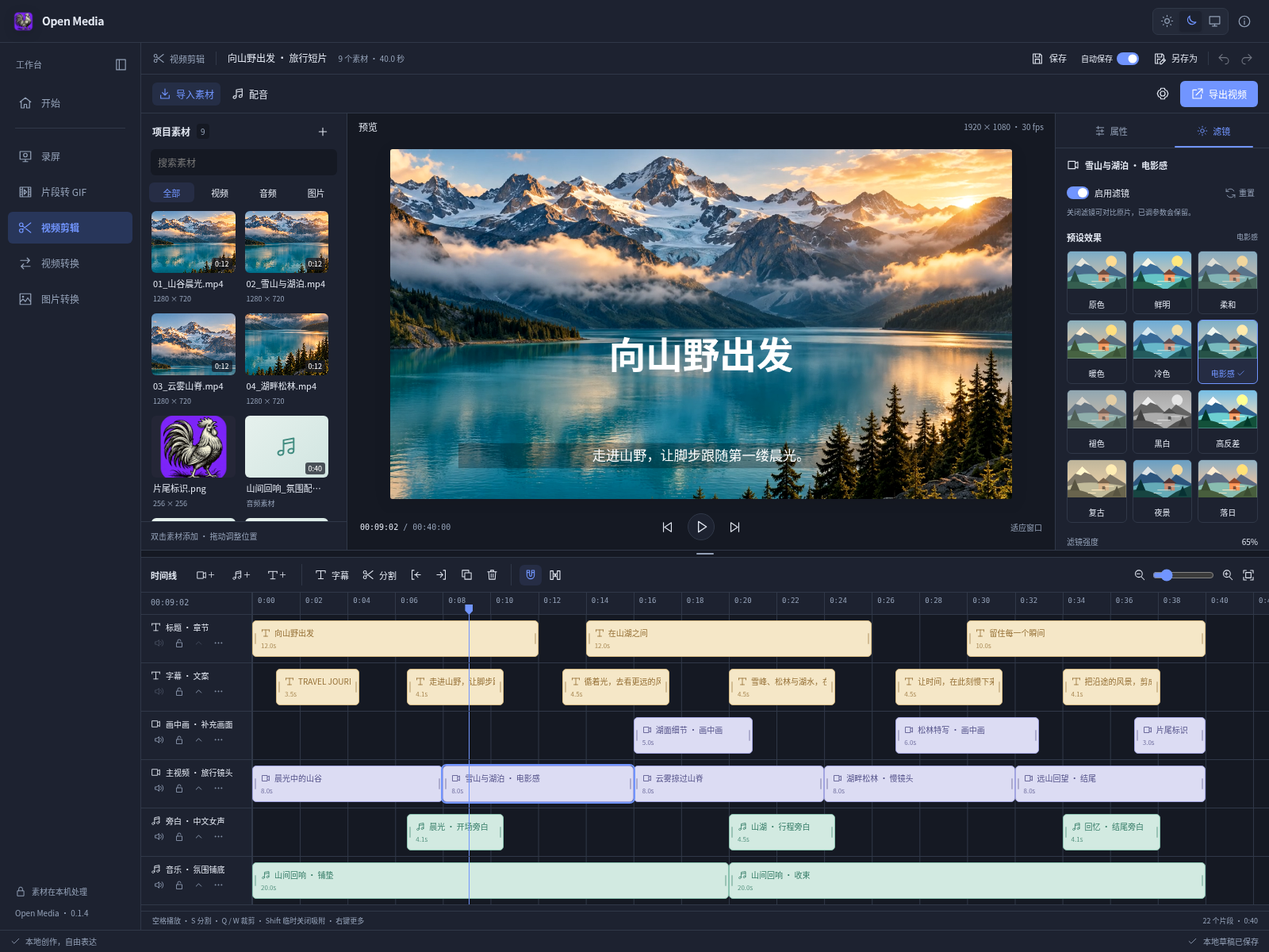
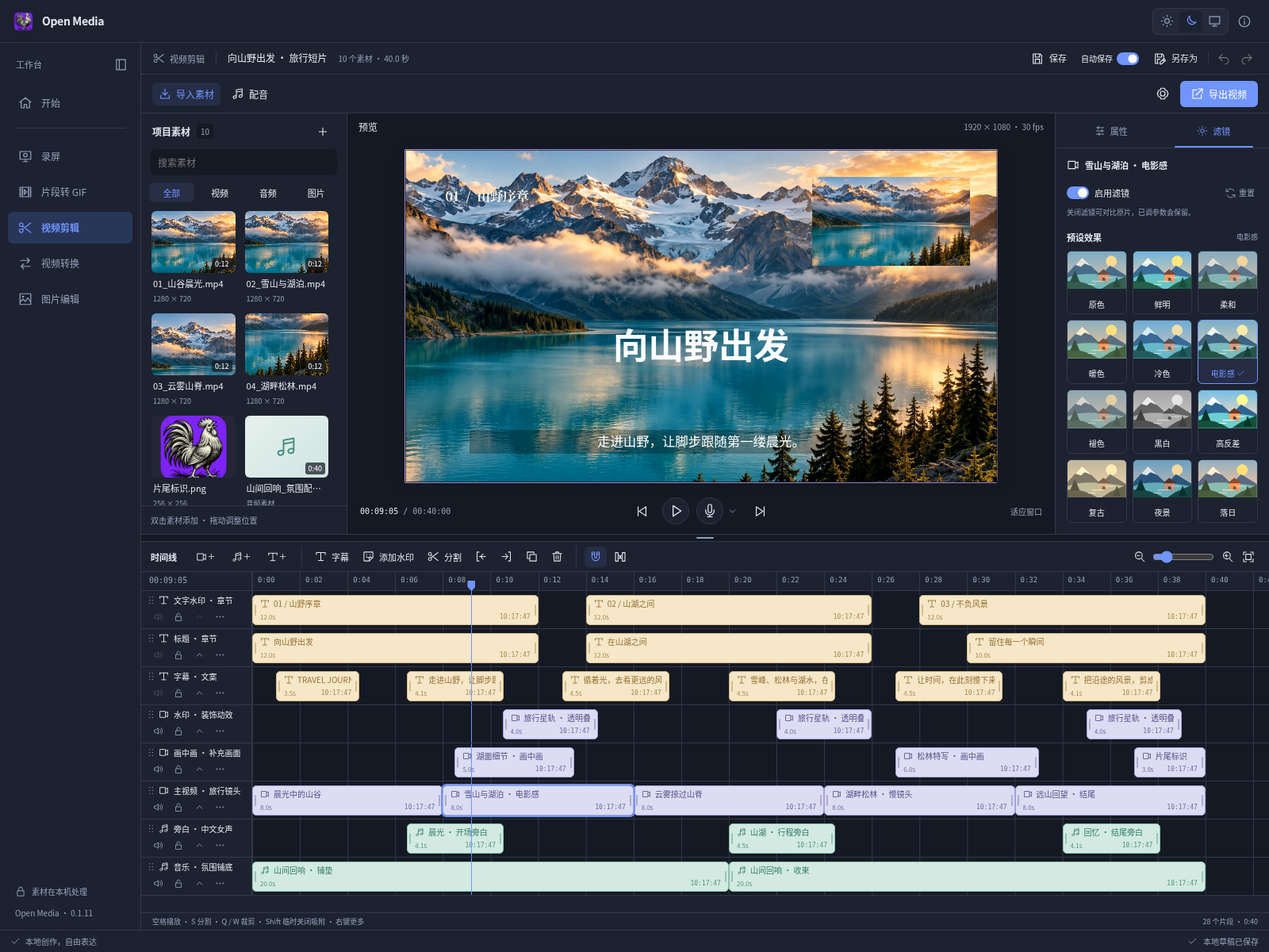
补充五个工作区的真实功能截图与图文概览 [skip ci]

diff --git a/README.md b/README.md
@@ -1,141 +1,120 @@
 # Open Media
 
-本地录屏、视频剪辑、分段动图与媒体转换工作台。通过左侧工作区切换任务，在同一个项目中管理录制片段、视频、音频和图片。
+本地录屏、分段 GIF、视频剪辑、视频转换与图片编辑工作台。五个工作区共享素材，在同一项目中完成采集、创作与导出；支持浅色、深色和跟随系统主题。
+
+[下载最新版本](https://github.com/ecojust/open-media/releases/latest) · [使用指南](docs/USAGE.md) · [常见授权问题](docs/USAGE.md#macos-授权与启动提示)
 
 <picture>
   <source media="(prefers-color-scheme: dark)" srcset="docs/screenshots/editor-dark.png">
-  <img src="docs/screenshots/editor-light.png" alt="旅行短片剪辑示例：六轨时间线、标题字幕、画中画、旁白、配乐和片段滤镜" width="1600">
+  <img src="docs/screenshots/editor-light.png" alt="旅行短片剪辑：8 条轨道、28 个片段，包含标题字幕、画中画、动态水印、中文旁白、配乐和滤镜" width="1600">
 </picture>
 
-*40 秒旅行短片示例：9 个素材、6 条轨道、22 个片段，展示视频预览、分段字幕、离线旁白与滤镜调色。*
+*40 秒旅行短片：10 个素材、8 条轨道、28 个片段。下面展示各工作区的完整创作场景，截图随页面主题切换。*
 
-## 工作区
+## 功能示例
 
-| 工作区 | 功能 |
+| 工作区 | 主要能力 |
 | --- | --- |
-| 屏幕录制 | 点击开始后交互选择窗口、整屏或拖动框选区域，调整输出尺寸；红框标示范围，支持暂停、继续及快捷键截屏 |
-| 分段 GIF | 设置多个时间区间，按片段生成动图，调整输出尺寸、帧率和循环方式 |
-| 视频剪辑 | 多轨时间线、片段滤镜、裁切与分割、拖动编排、速度、音量、画面布局、文字叠加、动态水印与绿幕去底、离线多音色配音与单独试听 |
-| 视频转换 | 转换 MP4、MOV、MKV、WebM，调整输出尺寸、帧率和码率，也可提取音频 |
-| 图片编辑 | 插入文字、自定义笔触、像素刻度框选裁剪；调整尺寸、旋转、翻转与背景，批量导出 PNG、JPEG、WebP、BMP、ICO、静态 GIF、TIFF |
+| [屏幕录制](#屏幕录制) | 窗口、整屏与区域选择，录制尺寸、暂停继续、麦克风来源、快捷键截屏与自动复制 |
+| [片段转 GIF](#片段转-gif) | 多区间截取、片段重排、尺寸与帧率、循环设置、动图预览与下载 |
+| [视频剪辑](#视频剪辑) | 多轨编排、吸附与裁切、画中画、字幕、滤镜、水印、离线配音与麦克风录音 |
+| [视频转换](#视频转换) | 批量处理、格式转换、分辨率、帧率与码率、片段截取、音频提取 |
+| [图片编辑](#图片编辑) | 文字与笔触、刻度裁剪、旋转翻转、批量导出、多尺寸 ICO 与剪贴板复制 |
 
-素材保留原文件。编辑项目保存素材与剪辑信息，导出生成新的媒体文件；两者用途不同。转换队列显示每项结果，支持取消及下载已完成结果。界面操作图标统一使用 SVG。
+### 屏幕录制
 
-右上角提供浅色、深色和跟随系统三个并列主题按钮，当前选项会高亮。
+交互选择窗口、整屏或区域并设置输出尺寸；录制范围以红框标示，悬浮操作栏提供计时、暂停／继续、麦克风开关和停止。截屏可选择范围，完成后自动复制并进入图片编辑。
 
-视频剪辑中的**保存**（Ctrl/⌘+S）首次选择位置，之后直接覆盖当前项目文件；通过“打开”载入的文件也可直接保存。**另存为**（Ctrl/⌘+Shift+S）每次选择位置，成功后后续保存写回新文件。取消或写入失败不会切换当前保存位置。自动保存仍只保留本地草稿；从草稿恢复或新建项目后，首次手动保存重新选择文件位置。网页版在支持本地文件访问的浏览器中使用相同方式，其他浏览器下载项目副本。
+<picture>
+  <source media="(prefers-color-scheme: dark)" srcset="docs/screenshots/record-dark.png">
+  <img src="docs/screenshots/record-light.png" alt="录屏实际工作区：录制旅行拍摄计划演示页，显示红框、时长、暂停、停止和录制设置" width="1600">
+</picture>
 
-桌面端关闭窗口或退出应用时，如果项目尚未保存到文件，会提供“取消”“全部关闭”和“保存并全部关闭”。全部关闭不再保存当前修改，已保存的本地草稿保留；保存取消或失败时继续留在工作区。进行中的录制、配音、转换和导出需先完成或取消，待恢复的录制文件需先保存。确认退出后关闭整个应用并释放相关资源。
+*网页录屏示例：采集「山野影像」演示页，输出 1280 × 720 画面，素材列表同时呈现四段旅行镜头。*
 
-## 使用
+<details>
+<summary>查看录制来源与输出尺寸选择</summary>
 
-1. 点击“导入素材”或将文件拖入窗口；也可以进入“录屏”，点击开始并完成系统授权，在选择界面确认范围与尺寸后录制，停止后结果会加入素材库。
-2. 在“视频剪辑”中双击素材或拖入时间线。拖动片段调整位置，拖动两端裁切，在播放头处分割；选中片段后调整速度、音量、布局和淡入淡出。文字放在独立轨道，可以与视频、图片和音频一起编排。
-3. 点击“导出视频”选择输出参数；只需要片段动图时，进入“片段转 GIF”设置一个或多个起止区间，再选择尺寸、帧率和循环方式。
-4. 图片和视频转换可直接选取素材库中的文件，设置参数后加入队列。每项任务单独显示进度和结果，可以取消尚未完成的处理。
+<img src="docs/screenshots/record-picker.png" alt="录制范围选择：画面预览、来源尺寸、输出尺寸、麦克风控制和确认按钮" width="1600">
 
-视频剪辑工作区“保存”旁的**自动保存**开关只保留当前设备的本地草稿，可从开始页的最近项目恢复。点击**保存**会生成 `.omedia` 项目文件，其中包含编辑信息和素材原件，可以迁移到另一台设备后继续编辑。原始素材总计不超过 256 MB 时可以打包便携项目；此限制不影响桌面视频导出。自动保存不会持续改写已经保存到磁盘的项目文件。
+</details>
 
-**保存项目与导出媒体是两个操作。** `.omedia` 用于后续编辑；视频、图片和动图导出生成新的媒体文件，不改动原件。
+### 片段转 GIF
 
-| 环境 | 录制与处理方式 |
-| --- | --- |
-| 桌面端 | 安装包自带媒体处理能力，支持本机录制和多种视频、音频格式的离线渲染、转换；无需手动安装额外媒体工具 |
-| 网页端 | 支持浏览器提供的屏幕采集、剪辑预览、动图和常用图片转换；视频以 WebM 实时导出，处理时间随播放时长变化，导出时需保持窗口在前台 |
+从同一个视频截取多个时间区间，调整片段顺序、输出尺寸、帧率、画质和循环方式；预览选段与生成后的动图，并直接下载结果。
 
-具体格式以界面可选项为准。桌面端遇到原生预览无法直接播放的受支持素材时，会保留原件并生成兼容预览；无法解码的素材会显示错误。不同设备和浏览器的解码能力不同，不保证任意媒体文件都能打开。
+<picture>
+  <source media="(prefers-color-scheme: dark)" srcset="docs/screenshots/gif-dark.png">
+  <img src="docs/screenshots/gif-light.png" alt="四段旅行画面截取为 GIF：区间列表、起止时间、输出尺寸、帧率和已生成动图" width="1600">
+</picture>
 
-屏幕或麦克风仅在点击开始并完成系统授权后采集。桌面端录制来源由操作系统可用设备决定；网页端由来源选择器决定是否包含共享音频。macOS 首次录制可能需要在系统隐私设置中允许屏幕录制和麦克风访问。
+*示例：将山谷、雪山、云雾和松林四个片段组合为 6 秒循环动图，输出宽度 640 像素、12 FPS。*
 
-### 剪辑录音
+### 视频剪辑
 
-视频剪辑预览区的播放按钮后提供麦克风录音按钮。点击后授权麦克风，再次点击停止；录音从开始时的播放头位置加入“配音轨道”，同时保留在素材库中，可试听、裁剪、撤销及随项目保存。已有同名轨道未锁定、未静音且对应时段空闲时会复用，否则新建同名音频轨道，保留已有内容。
+多轨时间线支持拖动排序、分割裁剪、删除接拢和吸附定位。字幕、水印和画中画可在预览中直接拖动对齐；视频片段支持 12 种滤镜与参数调色。配音提供 25 个离线代表音色、批量文字转语音、文字时长对齐及麦克风录音。
 
-录音按钮旁可选择麦克风来源，选择会自动记住。实际开始录音后，画面与播放头从当前刻度同步前进；超过原片尾时保留最后画面，录音仍插入开始时的位置。录音期间暂时锁定编辑和工作区切换，结束后释放麦克风。等待授权时可以取消；添加失败时可重试或单独保存录音文件。单段录音满 30 分钟或已收集音频达到约 96 MiB 时自动结束并加入项目。
+封面示例同时编排标题、字幕、画中画、主视频、动态水印、旁白和配乐。内置水印库含 **五类共 500 个素材，每类 100 个**，其中 100 个文字模板可直接编辑文案与样式。
 
-### 水印与动态素材
+<picture>
+  <source media="(prefers-color-scheme: dark)" srcset="docs/screenshots/watermarks-dark.png">
+  <img src="docs/screenshots/watermarks-light.png" alt="复杂多轨剪辑中打开水印库：500 个素材、五类各 100 个、分类搜索及实际素材卡片" width="1600">
+</picture>
 
-内置 **500 个水印素材**，分为互动贴纸、装饰动效、提示标注、字幕标签和可编辑文字五类，**每类 100 个**。题材覆盖日常、旅行、美食、学习、运动、科技和节日等场景，支持分类、文案搜索、分页浏览与动画静音预览，也可导入自己的图片或视频。
+<details>
+<summary>查看可编辑文字水印模板</summary>
 
-水印从当前播放头加入独立轨道，已有轨道被占用或锁定时保留原内容。**可编辑文字水印**保留为文字片段，支持修改文案、字号、字体、颜色与背景；图片和视频水印支持透明度、尺寸、时长及绿幕去底。
+<picture>
+  <source media="(prefers-color-scheme: dark)" srcset="docs/screenshots/text-watermarks-dark.png">
+  <img src="docs/screenshots/text-watermarks-light.png" alt="可编辑文字水印：100 个不同题材模板，保留原生文字、字体、颜色和背景编辑能力" width="1600">
+</picture>
 
-选中字幕、水印、图片或视频片段后，可直接在预览中拖动位置，吸附到画面或其他可见片段的边缘、中心，并显示对齐参考线。支持 Alt 临时关闭吸附、方向键微调及整次拖动撤销。
+</details>
 
-水印的文字、位置、素材与去底参数随项目保存，预览与导出使用相同数据。内置动画提供 MP4 与 WebM 两种格式，按播放环境选择。素材来源与生成说明见 [内置水印素材](public/watermarks/README.md)。
+### 视频转换
 
-### 录制范围与尺寸
+批量转换视频，设置输出分辨率、帧率、视频与音频码率、采样率和截取区间。每项任务独立显示进度与结果，支持取消、预览和下载；桌面端支持 MP4、MOV、MKV、WebM 及常见音频格式。
 
-- 点击**开始录制**后进入选择界面：**屏幕**选择整块显示器，**窗口**悬停高亮后点击选择，**区域**在桌面拖动框选。支持拖动选区、拉动边角缩放、调整像素宽高及方向键微调，确认后才开始录制；按 Esc 可取消。
-- 选区界面显示实际像素尺寸，高分屏会换算为物理像素。多显示器分别提供选择界面，区域限制在当前显示器内。
-- 输出可选原始尺寸、1920 × 1080、1280 × 720 或自定义偶数尺寸。指定尺寸时保持内容比例，多余空间留黑边。桌面原始尺寸会对齐编码所需的偶数像素，超大来源缩放至支持范围内；实际输出尺寸在录制时显示。
-- 桌面端红框标示实际录制范围，随所选窗口移动，暂停或停止时消失。窗口关闭、最小化或录制范围不可用时暂停并提示原因，不会改录整个桌面。暂停后继续录制沿用首次确定的输出尺寸。
-- 红框右上方的悬浮操作栏显示已录制时长，提供暂停／继续、麦克风开关和停止按钮；暂停期间保留操作栏且计时冻结，停止成功后自动收起并将结果加入素材库。屏幕边缘会自动调整位置，避免按钮超出屏幕。
-- 选择范围的面板默认开启麦克风，可在确认前关闭；麦克风开关、取消和开始按钮放在同一面板内。录制或暂停时仍可开启／关闭麦克风，关闭会释放设备，首次开启按系统要求授权。网页端麦克风与共享音频独立控制。
-- 桌面端切换麦克风会短暂切换录制片段，停止时自动合并并为无麦克风片段补齐静音；授权预检期间原画面继续录制。开启失败会保留原录制，等待授权期间也可停止。
-- macOS 屏幕录制会排除录制控制栏，并保留开始录制时已有的本应用普通窗口；录制期间新开的本应用原生窗口不会自动加入当前捕获范围。
-- 桌面红框排除需要 Windows 10 2004（系统内部版本 19041）或更新系统；macOS 桌面录制需要 13.0 或更新系统。
-- 打开录屏工作区不会请求设备权限；点击开始后查询当前可用来源，确认范围后再开启麦克风和倒计时。取消选择会清理临时窗口与采集资源。
-- 网页端先通过系统共享选择器授权，再在来源预览上交互选择范围和尺寸；区域录制必须选择整个屏幕。网页预览显示红框，其他窗口上的共享指示由浏览器控制；红框不会写入导出画面。网页使用自定义尺寸或区域录制时，请保持工作台在前台，以免后台限速影响录制帧率。
+<picture>
+  <source media="(prefers-color-scheme: dark)" srcset="docs/screenshots/video-convert-dark.png">
+  <img src="docs/screenshots/video-convert-light.png" alt="四段旅行视频批量转换：素材列表、已完成结果、720p 分辨率、24 FPS、码率和片段截取设置" width="1600">
+</picture>
 
-### 时间线整理
+*示例：四个视频截取 1.5–7.5 秒区间，设置为 720p、24 FPS、4500 kbps 并批量生成 WebM；图中的完成项均为实际转换结果。*
 
-顶部提供主题切换与应用信息，应用信息显示版本号及构建时间。新建与打开位于开始页，保存、自动保存及撤销重做位于剪辑工作区；项目设置通过“导出视频”旁的图标打开。桌面媒体处理任务可从底部状态栏查看。
+### 图片编辑
 
-片段右下角显示最近生成时间，悬停可查看完整日期。重新配音或修改文字正文会更新时间，调整位置、裁剪与样式保留原时间；旧项目没有记录时不补造日期。
+插入多段文字并调整字体、字号、颜色和位置；使用画笔、荧光笔及虚线笔触自由标注，支持撤销与重做。裁剪确认后即时更新主预览，复制和导出均包含当前编辑效果。
 
-- 分割、裁剪、字幕等工具集中在时间线工具栏。拖动预览与时间线之间的分隔条可以调整上下区域高度；素材过多时列表独立滚动，卡片保持原有高度。
-- 在片段内部定位播放头，用 **Q** 裁掉左侧、**W** 裁掉右侧；按原素材时间和变速比例计算，至少保留一帧。
-- 右键视频、音频或文字片段，可以分割、复制、删除；文字额外提供配音与语音对齐，视频可分离音轨。
-- **删除并接拢空隙**会删除当前片段，并压缩该时段内所有轨道共同空白的部分；其他轨道仍有内容的时段保持原样。**清除公共空隙**用于整理整条时间线，字幕、配音和画面同步前移。
-- 时间线提供吸附开关，移动片段或裁切边缘时吸附到最近的片段边缘或播放头，并显示参考线。按住 **Shift** 可临时忽略吸附，仍按项目帧率对齐。
-- 拖动轨道名称旁的手柄可上下排序，插入线显示放置位置，靠近时间线边缘时自动滚动；按 **Esc** 可取消。排在上方的画面轨道显示在前景，预览与导出使用相同顺序，片段时间保持不变。选中手柄后也可用 **Alt + ↑ / ↓** 调整顺序，支持撤销、重做与项目保存。
-- 双击轨道名称可以重命名；轨道菜单支持调整上下层级、移除空轨或确认后删除整轨。锁定轨道需先解锁才能拖动，所有修改可撤销。
+支持旋转、翻转、尺寸与背景设置，以及 PNG、JPEG、WebP、BMP、ICO、静态 GIF、TIFF 等格式。每张图片保留独立裁剪与标注，多尺寸 ICO 可同时包含多种图标规格。
 
-### 片段滤镜与试听
+<picture>
+  <source media="(prefers-color-scheme: dark)" srcset="docs/screenshots/image-edit-dark.png">
+  <img src="docs/screenshots/image-edit-light.png" alt="旅行海报图片编辑：多图片素材、层次化标题与文案、自定义笔触、编辑后预览和导出结果" width="1600">
+</picture>
 
-- 选中视频或图片片段，在右侧切换到**滤镜**：提供含原色在内的 12 种预设，可调整强度、亮度、对比度、饱和度、色温、色调和复古效果。关闭滤镜可对比原片，重置可清除调整。滤镜只影响当前片段，预览与导出均保留效果，并支持保存与撤销。
-- 选中配音或音频片段，点击右侧属性中的**播放图标**即可试听，再次点击暂停，也可拖动进度定位。试听沿用当前片段的裁剪范围、速度、音量与淡入淡出，不受轨道静音影响；开始试听会暂停主时间线，恢复主时间线播放会停止试听。音频自行连续播放，界面刷新只读取播放进度。
+<details>
+<summary>查看文字与笔触编辑、刻度裁剪</summary>
 
-### 截屏
+<picture>
+  <source media="(prefers-color-scheme: dark)" srcset="docs/screenshots/image-tools-dark.png">
+  <img src="docs/screenshots/image-tools-light.png" alt="旅行海报文字与笔触编辑：多层标注、颜色、字号、透明度、画笔与撤销操作" width="1600">
+</picture>
 
-截屏默认将图片复制到剪贴板，同时加入素材库并打开图片编辑。支持窗口、屏幕及区域选择，默认快捷键为 **Command/Ctrl + Shift + 2**，可在录制页顶部的**截屏设置**中调整。
+<picture>
+  <source media="(prefers-color-scheme: dark)" srcset="docs/screenshots/image-crop-dark.png">
+  <img src="docs/screenshots/image-crop-light.png" alt="图片精细框选：像素标尺、细分网格、吸附步长、选区坐标及尺寸" width="1600">
+</picture>
 
-桌面端快捷键在应用运行时全局生效；网页端仅在当前网页获得焦点时生效，并需要通过系统共享选择器授权。取消选择会释放采集资源。
+</details>
 
-图片预览工具栏提供**复制图片**，将当前图片及其裁剪、尺寸、旋转、翻转和背景设置复制到剪贴板，无需先转换。复制失败时保留图片并提示重试；网页端需要浏览器允许写入图片剪贴板。
+## 本地创作与保存
 
-### 图片框选与格式转换
+素材保留原件，导出生成新文件。`.omedia` 项目可携带素材和时间线继续编辑；自动保存保留本地草稿，手动保存与另存为用于项目文件。
 
-在图片预览上点击**框选裁剪**，拖动选择范围，使用八个边角手柄调整尺寸，或切换到移动工具调整位置。顶部和左侧标尺以原始图片像素显示，支持细分网格、1–100 px 吸附步长及最高 800% 放大；X、Y、宽、高可直接输入整数像素。方向键移动 1 px，按住 Shift 移动 10 px。点击**应用裁剪**保存这张图片的范围，取消则保留之前设置；批量转换时，每张图片使用各自范围，先裁剪，再缩放、旋转和翻转。
+桌面安装包内置媒体处理和离线语音组件。网页端支持浏览器屏幕采集、剪辑、动图与常用图片处理，视频导出采用 WebM；可用格式以当前环境界面为准。屏幕和麦克风仅在主动操作并完成授权后采集。
 
-ICO 支持在一个文件中包含 16、32、48、64、128、256 px 中选定的尺寸，保持图像比例并居中。静态 GIF 使用自适应调色板，半透明像素转为透明或不透明；TIFF 保存未压缩的 RGBA 像素。AVIF 只在当前环境实际支持编码时显示。ICO 与 TIFF 的结果保留在转换队列，可单独下载或打包保存，预览采用兼容图片，下载文件保持所选格式。
-
-### 文字转语音
-
-桌面安装包附带独立离线语音模型，声音列表精简为 25 个代表音色：中文男声 10 个、中文女声 12 个、英文女声 3 个，无需使用系统语音、申请服务密钥或上传文字。在视频剪辑中点击**配音**打开弹窗，通过带风格头像和音色类型标签的分类卡片选择声音，可按名称或类型搜索。点击卡片喇叭会播放对应语言的固定示例，再次点击暂停；试听无需填写文字。公共配音弹窗提供音色、语速设置以及全部文字的生成与对齐操作。选中文字片段后，在右侧属性点击**文字转语音**或**对齐语音**直接执行，不会打开弹窗；右键文字片段也可生成语音。单片段生成状态、取消和错误提示显示在右侧属性中。
-
-- 25 个代表音色各自附带本地试听音频，首次点击、切换声音或重新打开软件均无需重新合成；调节试听语速会直接改变播放速度并保持音高。历史项目中未提供固定试听的其他声音仍使用离线合成。
-- **文字时长对齐语音**默认开启：保持文字起点，按实际音频时长调整文字显示时间。关闭后保留原文字时长。
-- 语音放入独立配音轨，进入素材库，可继续裁切、调整音量和随视频导出。重新生成会替换该文字的关联配音；整批操作可一次撤销。
-- 后续裁切、移动或调整语音速度后，可用**文字对齐已有语音**重新同步。修改文字内容后需重新生成配音。
-- 批量按时间顺序处理，显示完成数量与当前进度，可随时取消。取消或生成失败不会写入部分时间线结果；空文字、锁定轨道和超长文字会显示跳过原因。
-- 每段最多 4000 个字符。配音重叠时会提示，并保留原有片段起点，避免挪动其他素材；可在时间线中调整。
-
-网页端可以编辑、播放和导出项目中已有的配音；新增离线配音需使用桌面端。语音资源的来源、许可与开发准备见[语音运行时说明](docs/SPEECH_RUNTIME.md)。
-
-### macOS 授权与启动提示
-
-首次点击开始时，按系统提示允许屏幕录制；启用麦克风时另需麦克风访问权限。授权或更新应用后，如果系统要求重新打开，请完全退出应用，再从“应用程序”中的同一份应用重新启动。
-
-应用会分别提示来源授权、麦克风、编码器、录制边框和首帧启动失败，并保留系统错误信息。若已授权仍失败，请以界面显示的具体错误定位；权限设置中存在勾选项并不能说明当前运行的安装副本已被系统认可。
-
-可以覆盖安装升级，无需先卸载。当前安装包使用临时签名，替换应用后系统可能不再接受旧副本的屏幕录制授权。如果升级后出现 `SCStreamErrorDomain -3801`，请完全退出应用，在系统设置的屏幕录制权限中移除旧条目，重新添加并允许 `/Applications/Open Media.app`，再打开应用。仍然失败时，可在退出应用后运行以下命令，仅重置本应用的屏幕录制授权，然后重新打开并授权；项目文件不会被删除：
-
-```sh
-tccutil reset ScreenCapture com.ecojust.openmedia
-```
-
-录屏实现直接链接在主程序中。若旧版报错包含 `dlopen` 或 `different Team IDs`，表示录屏组件加载被系统拒绝，尚未进入屏幕权限检查；应使用修复后的完整应用包。
+详细操作、快捷键、格式说明和 macOS 权限恢复见[使用指南](docs/USAGE.md)。
 
 ## 开发
 
@@ -146,14 +125,7 @@ npm ci
 npm run dev
 ```
 
-桌面开发还需要 Rust 和目标平台的桌面构建依赖。首次构建先准备媒体工具，具体前置工具见 [媒体运行时说明](docs/MEDIA_RUNTIME.md)：
-
-```sh
-npm run runtime:prepare
-bash scripts/build-media-runtime.sh
-npm run speech:prepare
-npm run desktop:dev
-```
+桌面开发、运行时准备与验证见[媒体运行时说明](docs/MEDIA_RUNTIME.md)、[语音运行时说明](docs/SPEECH_RUNTIME.md)和[录屏验证记录](docs/RECORDING_CHECK.md)。
 
 ```sh
 npm test
@@ -161,12 +133,6 @@ npm run build
 npm run test:browser
 cargo test --manifest-path src-tauri/Cargo.toml --no-default-features --locked --lib
 ```
-
-媒体验证会真正编码和读取视频、音频及图片；录屏设备授权仍需在目标桌面系统上实际确认。流水线构建 Windows x64、macOS ARM64 和 macOS x64 安装包，发布要求同一提交的全部必要任务通过。
-
-录屏专项检查通过 `capture-macos.yml` 在 macOS ARM64 构建机上安装完整应用，分别验证带红框和不带红框的真实屏幕采集，并保留系统版本、签名、测试日志和录制文件。该流程直接启动录制模式，可能继承构建机执行代理的授权，不能证明应用升级后的旧授权仍然有效。`capture-gui-macos.yml` 则原样安装已有正式包，通过应用启动器和真实界面发起录制，分别报告成功录制、系统拒绝授权和自动化操作受限；不会重新签名或修改权限数据库。设备授权被拒绝时测试失败；编解码自测通过不等于屏幕采集通过。命令说明见[录屏组件说明](src-tauri/resources/capture/README.txt)。
-
-已完成的环境、结果和覆盖范围见[录屏专项验证记录](docs/RECORDING_CHECK.md)。
 
 ## 许可证与分发
 

diff --git a/docs/USAGE.md b/docs/USAGE.md
@@ -1,0 +1,124 @@
+# 使用指南
+
+[返回功能概览](../README.md)
+
+## 项目与工作区
+
+素材保留原文件。编辑项目保存素材与剪辑信息，导出生成新的媒体文件；两者用途不同。转换队列显示每项结果，支持取消及下载已完成结果。界面操作图标统一使用 SVG。
+
+右上角提供浅色、深色和跟随系统三个并列主题按钮，当前选项会高亮。
+
+视频剪辑中的**保存**（Ctrl/⌘+S）首次选择位置，之后直接覆盖当前项目文件；通过“打开”载入的文件也可直接保存。**另存为**（Ctrl/⌘+Shift+S）每次选择位置，成功后后续保存写回新文件。取消或写入失败不会切换当前保存位置。自动保存仍只保留本地草稿；从草稿恢复或新建项目后，首次手动保存重新选择文件位置。网页版在支持本地文件访问的浏览器中使用相同方式，其他浏览器下载项目副本。
+
+桌面端关闭窗口或退出应用时，如果项目尚未保存到文件，会提供“取消”“全部关闭”和“保存并全部关闭”。全部关闭不再保存当前修改，已保存的本地草稿保留；保存取消或失败时继续留在工作区。进行中的录制、配音、转换和导出需先完成或取消，待恢复的录制文件需先保存。确认退出后关闭整个应用并释放相关资源。
+
+## 基本流程
+
+
+1. 点击“导入素材”或将文件拖入窗口；也可以进入“录屏”，点击开始并完成系统授权，在选择界面确认范围与尺寸后录制，停止后结果会加入素材库。
+2. 在“视频剪辑”中双击素材或拖入时间线。拖动片段调整位置，拖动两端裁切，在播放头处分割；选中片段后调整速度、音量、布局和淡入淡出。文字放在独立轨道，可以与视频、图片和音频一起编排。
+3. 点击“导出视频”选择输出参数；只需要片段动图时，进入“片段转 GIF”设置一个或多个起止区间，再选择尺寸、帧率和循环方式。
+4. 图片和视频转换可直接选取素材库中的文件，设置参数后加入队列。每项任务单独显示进度和结果，可以取消尚未完成的处理。
+
+视频剪辑工作区“保存”旁的**自动保存**开关只保留当前设备的本地草稿，可从开始页的最近项目恢复。点击**保存**会生成 `.omedia` 项目文件，其中包含编辑信息和素材原件，可以迁移到另一台设备后继续编辑。原始素材总计不超过 256 MB 时可以打包便携项目；此限制不影响桌面视频导出。自动保存不会持续改写已经保存到磁盘的项目文件。
+
+**保存项目与导出媒体是两个操作。** `.omedia` 用于后续编辑；视频、图片和动图导出生成新的媒体文件，不改动原件。
+
+| 环境 | 录制与处理方式 |
+| --- | --- |
+| 桌面端 | 安装包自带媒体处理能力，支持本机录制和多种视频、音频格式的离线渲染、转换；无需手动安装额外媒体工具 |
+| 网页端 | 支持浏览器提供的屏幕采集、剪辑预览、动图和常用图片转换；视频以 WebM 实时导出，处理时间随播放时长变化，导出时需保持窗口在前台 |
+
+具体格式以界面可选项为准。桌面端遇到原生预览无法直接播放的受支持素材时，会保留原件并生成兼容预览；无法解码的素材会显示错误。不同设备和浏览器的解码能力不同，不保证任意媒体文件都能打开。
+
+屏幕或麦克风仅在点击开始并完成系统授权后采集。桌面端录制来源由操作系统可用设备决定；网页端由来源选择器决定是否包含共享音频。macOS 首次录制可能需要在系统隐私设置中允许屏幕录制和麦克风访问。
+
+### 剪辑录音
+
+视频剪辑预览区的播放按钮后提供麦克风录音按钮。点击后授权麦克风，再次点击停止；录音从开始时的播放头位置加入“配音轨道”，同时保留在素材库中，可试听、裁剪、撤销及随项目保存。已有同名轨道未锁定、未静音且对应时段空闲时会复用，否则新建同名音频轨道，保留已有内容。
+
+录音按钮旁可选择麦克风来源，选择会自动记住。实际开始录音后，画面与播放头从当前刻度同步前进；超过原片尾时保留最后画面，录音仍插入开始时的位置。录音期间暂时锁定编辑和工作区切换，结束后释放麦克风。等待授权时可以取消；添加失败时可重试或单独保存录音文件。单段录音满 30 分钟或已收集音频达到约 96 MiB 时自动结束并加入项目。
+
+### 水印与动态素材
+
+内置 **500 个水印素材**，分为互动贴纸、装饰动效、提示标注、字幕标签和可编辑文字五类，**每类 100 个**。题材覆盖日常、旅行、美食、学习、运动、科技和节日等场景，支持分类、文案搜索、分页浏览与动画静音预览，也可导入自己的图片或视频。
+
+水印从当前播放头加入独立轨道，已有轨道被占用或锁定时保留原内容。**可编辑文字水印**保留为文字片段，支持修改文案、字号、字体、颜色与背景；图片和视频水印支持透明度、尺寸、时长及绿幕去底。
+
+选中字幕、水印、图片或视频片段后，可直接在预览中拖动位置，吸附到画面或其他可见片段的边缘、中心，并显示对齐参考线。支持 Alt 临时关闭吸附、方向键微调及整次拖动撤销。
+
+水印的文字、位置、素材与去底参数随项目保存，预览与导出使用相同数据。内置动画提供 MP4 与 WebM 两种格式，按播放环境选择。素材来源与生成说明见 [内置水印素材](../public/watermarks/README.md)。
+
+### 录制范围与尺寸
+
+- 点击**开始录制**后进入选择界面：**屏幕**选择整块显示器，**窗口**悬停高亮后点击选择，**区域**在桌面拖动框选。支持拖动选区、拉动边角缩放、调整像素宽高及方向键微调，确认后才开始录制；按 Esc 可取消。
+- 选区界面显示实际像素尺寸，高分屏会换算为物理像素。多显示器分别提供选择界面，区域限制在当前显示器内。
+- 输出可选原始尺寸、1920 × 1080、1280 × 720 或自定义偶数尺寸。指定尺寸时保持内容比例，多余空间留黑边。桌面原始尺寸会对齐编码所需的偶数像素，超大来源缩放至支持范围内；实际输出尺寸在录制时显示。
+- 桌面端红框标示实际录制范围，随所选窗口移动，暂停或停止时消失。窗口关闭、最小化或录制范围不可用时暂停并提示原因，不会改录整个桌面。暂停后继续录制沿用首次确定的输出尺寸。
+- 红框右上方的悬浮操作栏显示已录制时长，提供暂停／继续、麦克风开关和停止按钮；暂停期间保留操作栏且计时冻结，停止成功后自动收起并将结果加入素材库。屏幕边缘会自动调整位置，避免按钮超出屏幕。
+- 选择范围的面板默认开启麦克风，可在确认前关闭；麦克风开关、取消和开始按钮放在同一面板内。录制或暂停时仍可开启／关闭麦克风，关闭会释放设备，首次开启按系统要求授权。网页端麦克风与共享音频独立控制。
+- 桌面端切换麦克风会短暂切换录制片段，停止时自动合并并为无麦克风片段补齐静音；授权预检期间原画面继续录制。开启失败会保留原录制，等待授权期间也可停止。
+- macOS 屏幕录制会排除录制控制栏，并保留开始录制时已有的本应用普通窗口；录制期间新开的本应用原生窗口不会自动加入当前捕获范围。
+- 桌面红框排除需要 Windows 10 2004（系统内部版本 19041）或更新系统；macOS 桌面录制需要 13.0 或更新系统。
+- 打开录屏工作区不会请求设备权限；点击开始后查询当前可用来源，确认范围后再开启麦克风和倒计时。取消选择会清理临时窗口与采集资源。
+- 网页端先通过系统共享选择器授权，再在来源预览上交互选择范围和尺寸；区域录制必须选择整个屏幕。网页预览显示红框，其他窗口上的共享指示由浏览器控制；红框不会写入导出画面。网页使用自定义尺寸或区域录制时，请保持工作台在前台，以免后台限速影响录制帧率。
+
+### 时间线整理
+
+顶部提供主题切换与应用信息，应用信息显示版本号及构建时间。新建与打开位于开始页，保存、自动保存及撤销重做位于剪辑工作区；项目设置通过“导出视频”旁的图标打开。桌面媒体处理任务可从底部状态栏查看。
+
+片段右下角显示最近生成时间，悬停可查看完整日期。重新配音或修改文字正文会更新时间，调整位置、裁剪与样式保留原时间；旧项目没有记录时不补造日期。
+
+- 分割、裁剪、字幕等工具集中在时间线工具栏。拖动预览与时间线之间的分隔条可以调整上下区域高度；素材过多时列表独立滚动，卡片保持原有高度。
+- 在片段内部定位播放头，用 **Q** 裁掉左侧、**W** 裁掉右侧；按原素材时间和变速比例计算，至少保留一帧。
+- 右键视频、音频或文字片段，可以分割、复制、删除；文字额外提供配音与语音对齐，视频可分离音轨。
+- **删除并接拢空隙**会删除当前片段，并压缩该时段内所有轨道共同空白的部分；其他轨道仍有内容的时段保持原样。**清除公共空隙**用于整理整条时间线，字幕、配音和画面同步前移。
+- 时间线提供吸附开关，移动片段或裁切边缘时吸附到最近的片段边缘或播放头，并显示参考线。按住 **Shift** 可临时忽略吸附，仍按项目帧率对齐。
+- 拖动轨道名称旁的手柄可上下排序，插入线显示放置位置，靠近时间线边缘时自动滚动；按 **Esc** 可取消。排在上方的画面轨道显示在前景，预览与导出使用相同顺序，片段时间保持不变。选中手柄后也可用 **Alt + ↑ / ↓** 调整顺序，支持撤销、重做与项目保存。
+- 双击轨道名称可以重命名；轨道菜单支持调整上下层级、移除空轨或确认后删除整轨。锁定轨道需先解锁才能拖动，所有修改可撤销。
+
+### 片段滤镜与试听
+
+- 选中视频或图片片段，在右侧切换到**滤镜**：提供含原色在内的 12 种预设，可调整强度、亮度、对比度、饱和度、色温、色调和复古效果。关闭滤镜可对比原片，重置可清除调整。滤镜只影响当前片段，预览与导出均保留效果，并支持保存与撤销。
+- 选中配音或音频片段，点击右侧属性中的**播放图标**即可试听，再次点击暂停，也可拖动进度定位。试听沿用当前片段的裁剪范围、速度、音量与淡入淡出，不受轨道静音影响；开始试听会暂停主时间线，恢复主时间线播放会停止试听。音频自行连续播放，界面刷新只读取播放进度。
+
+### 截屏
+
+截屏默认将图片复制到剪贴板，同时加入素材库并打开图片编辑。支持窗口、屏幕及区域选择，默认快捷键为 **Command/Ctrl + Shift + 2**，可在录制页顶部的**截屏设置**中调整。
+
+桌面端快捷键在应用运行时全局生效；网页端仅在当前网页获得焦点时生效，并需要通过系统共享选择器授权。取消选择会释放采集资源。
+
+图片预览工具栏提供**复制图片**，将当前图片及其裁剪、尺寸、旋转、翻转和背景设置复制到剪贴板，无需先转换。复制失败时保留图片并提示重试；网页端需要浏览器允许写入图片剪贴板。
+
+### 图片框选与格式转换
+
+在图片预览上点击**框选裁剪**，拖动选择范围，使用八个边角手柄调整尺寸，或切换到移动工具调整位置。顶部和左侧标尺以原始图片像素显示，支持细分网格、1–100 px 吸附步长及最高 800% 放大；X、Y、宽、高可直接输入整数像素。方向键移动 1 px，按住 Shift 移动 10 px。点击**应用裁剪**保存这张图片的范围，取消则保留之前设置；批量转换时，每张图片使用各自范围，先裁剪，再缩放、旋转和翻转。
+
+ICO 支持在一个文件中包含 16、32、48、64、128、256 px 中选定的尺寸，保持图像比例并居中。静态 GIF 使用自适应调色板，半透明像素转为透明或不透明；TIFF 保存未压缩的 RGBA 像素。AVIF 只在当前环境实际支持编码时显示。ICO 与 TIFF 的结果保留在转换队列，可单独下载或打包保存，预览采用兼容图片，下载文件保持所选格式。
+
+### 文字转语音
+
+桌面安装包附带独立离线语音模型，声音列表精简为 25 个代表音色：中文男声 10 个、中文女声 12 个、英文女声 3 个，无需使用系统语音、申请服务密钥或上传文字。在视频剪辑中点击**配音**打开弹窗，通过带风格头像和音色类型标签的分类卡片选择声音，可按名称或类型搜索。点击卡片喇叭会播放对应语言的固定示例，再次点击暂停；试听无需填写文字。公共配音弹窗提供音色、语速设置以及全部文字的生成与对齐操作。选中文字片段后，在右侧属性点击**文字转语音**或**对齐语音**直接执行，不会打开弹窗；右键文字片段也可生成语音。单片段生成状态、取消和错误提示显示在右侧属性中。
+
+- 25 个代表音色各自附带本地试听音频，首次点击、切换声音或重新打开软件均无需重新合成；调节试听语速会直接改变播放速度并保持音高。历史项目中未提供固定试听的其他声音仍使用离线合成。
+- **文字时长对齐语音**默认开启：保持文字起点，按实际音频时长调整文字显示时间。关闭后保留原文字时长。
+- 语音放入独立配音轨，进入素材库，可继续裁切、调整音量和随视频导出。重新生成会替换该文字的关联配音；整批操作可一次撤销。
+- 后续裁切、移动或调整语音速度后，可用**文字对齐已有语音**重新同步。修改文字内容后需重新生成配音。
+- 批量按时间顺序处理，显示完成数量与当前进度，可随时取消。取消或生成失败不会写入部分时间线结果；空文字、锁定轨道和超长文字会显示跳过原因。
+- 每段最多 4000 个字符。配音重叠时会提示，并保留原有片段起点，避免挪动其他素材；可在时间线中调整。
+
+网页端可以编辑、播放和导出项目中已有的配音；新增离线配音需使用桌面端。语音资源的来源、许可与开发准备见[语音运行时说明](SPEECH_RUNTIME.md)。
+
+### macOS 授权与启动提示
+
+首次点击开始时，按系统提示允许屏幕录制；启用麦克风时另需麦克风访问权限。授权或更新应用后，如果系统要求重新打开，请完全退出应用，再从“应用程序”中的同一份应用重新启动。
+
+应用会分别提示来源授权、麦克风、编码器、录制边框和首帧启动失败，并保留系统错误信息。若已授权仍失败，请以界面显示的具体错误定位；权限设置中存在勾选项并不能说明当前运行的安装副本已被系统认可。
+
+可以覆盖安装升级，无需先卸载。当前安装包使用临时签名，替换应用后系统可能不再接受旧副本的屏幕录制授权。如果升级后出现 `SCStreamErrorDomain -3801`，请完全退出应用，在系统设置的屏幕录制权限中移除旧条目，重新添加并允许 `/Applications/Open Media.app`，再打开应用。仍然失败时，可在退出应用后运行以下命令，仅重置本应用的屏幕录制授权，然后重新打开并授权；项目文件不会被删除：
+
+```sh
+tccutil reset ScreenCapture com.ecojust.openmedia
+```
+
+录屏实现直接链接在主程序中。若旧版报错包含 `dlopen` 或 `different Team IDs`，表示录屏组件加载被系统拒绝，尚未进入屏幕权限检查；应使用修复后的完整应用包。

diff --git a/docs/screenshots/README.md b/docs/screenshots/README.md
@@ -1,0 +1,20 @@
+# 功能截图
+
+截图基于 Open Media 0.1.11，拍摄日期为 2026-10-17。主界面示例使用同一组旅行素材，包含浅色、深色两套主题，README 根据页面主题选择显示。
+
+| 图片 | 展示内容 |
+| --- | --- |
+| `editor-light.png` / `editor-dark.png` | 40 秒短片，10 个素材、8 条轨道、28 个片段；标题、字幕、文字水印、动态水印、画中画、旁白、配乐和滤镜 |
+| `record-light.png` / `record-dark.png` | 实际录制自建旅行拍摄计划页面，展示红框、计时、暂停、停止及最近的视频素材 |
+| `record-picker.png` | 实际来源预览与输出尺寸选择，麦克风在本示例中关闭 |
+| `gif-light.png` / `gif-dark.png` | 四个截取区间，实际生成 640 × 360、72 帧、6 秒循环 GIF |
+| `video-convert-light.png` / `video-convert-dark.png` | 四个视频的实际批量转换结果及分辨率、帧率、码率与区间设置 |
+| `watermarks-light.png` / `watermarks-dark.png` | 500 个水印的分类、搜索、分页与素材卡片 |
+| `text-watermarks-light.png` / `text-watermarks-dark.png` | 100 个可编辑文字水印模板 |
+| `image-edit-light.png` / `image-edit-dark.png` | 六个输入图片、十段文字、五条笔触及三个实际 WebP 导出结果 |
+| `image-tools-light.png` / `image-tools-dark.png` | 文字与笔触编辑弹窗、荧光笔透明度、虚线路线及画笔标注 |
+| `image-crop-light.png` / `image-crop-dark.png` | 像素标尺、100% 缩放、20 像素网格吸附及选区坐标 |
+
+所有图片均直接截取当前应用界面。GIF、视频转换和图片编辑中的完成结果经过实际编码、解码检查；录屏示例使用浏览器真实页面采集，停止后得到 1280 × 720 视频。示例没有采集设备麦克风。
+
+`workbench-*` 为早期工作台截图，保留供历史文档引用，本次功能展示使用上表图片。
